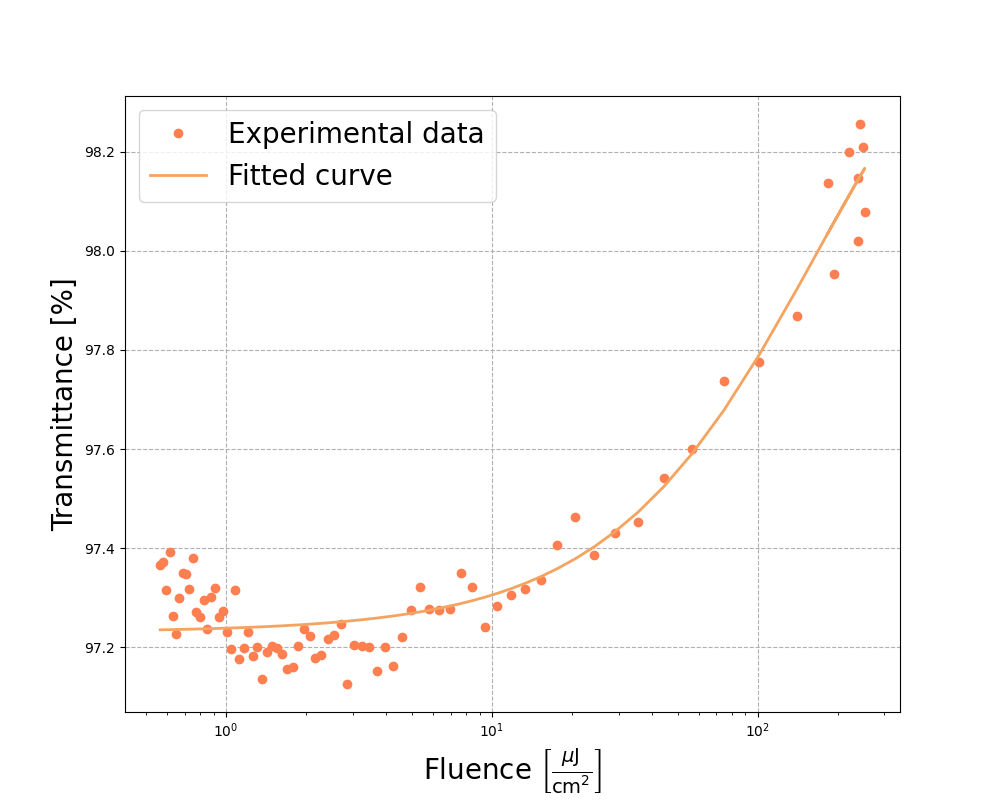
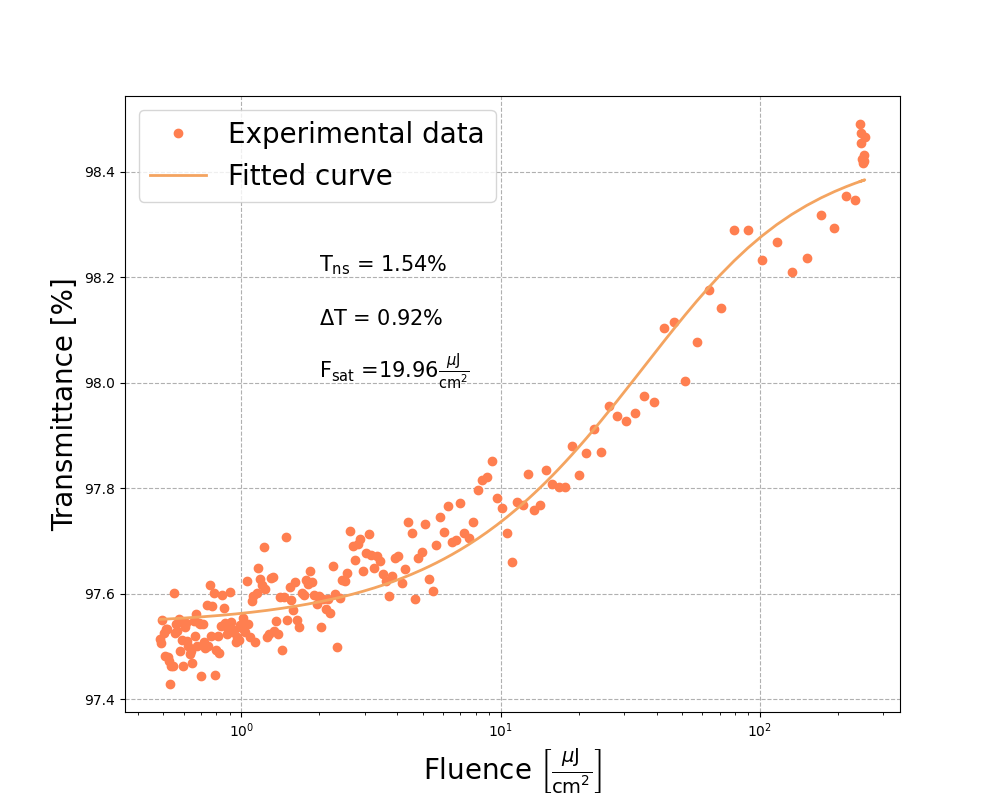
prezentacja na zakończenia

diff --git a/skrypty/transmittance_vs_position.py b/skrypty/transmittance_vs_position.py
@@ -4,18 +4,17 @@ import pandas as pd
 import os
 
 # wpisz ścieżkę do katalogu z danymi
-my_path = r'C:\Users\julia\Desktop\studia\Resonators 2025\Kody\Rezonatory2025\pomiary\pomiary_180825'
-file1 = r'swcnt_sa-2(1)_1_180825.csv'
-file2 = r'swcnt_sa-1(2)_1_180825.csv'
-file3 = r'grafen_b2_szklo_140825.csv'
+my_path = r'C:\Users\gosc\Desktop\Rezonatory2025\Rezonatory2025\pomiary\pomiary_130825'
+file1 = r'2_grafen_m1_probka_130825.csv'
+file2 = r'1_grafen_m1_szklo_130825.csv'
+
 # nazwa katalogu zapisu
-save_path = r'C:\Users\julia\Desktop\studia\Resonators 2025\Kody\Rezonatory2025\wyniki\wyniki_080925'
+save_path = r'C:\Users\gosc\Desktop\Rezonatory2025\Rezonatory2025\wyniki\wyniki_080925'
 # wpisz nazwę pliku do zapisu wykresus
-file_save = r'swcnt_sa-2(1)_plot.png'
+file_save = r'grafen_m1_plot.png'
 
 data1 = pd.read_csv(os.path.join(my_path, file1))
 data2 = pd.read_csv(os.path.join(my_path, file2))
-data3 = pd.read_csv(os.path.join(my_path, file3))
 
 # zestawienie
 grafen_m1 = ['1_grafen_m1_probka_130825.csv', '2_grafen_m1_probka_130825.csv', '3_grafen_m1_probka_130825.csv', '1_grafen_m1_szklo_130825.csv']
@@ -59,7 +58,6 @@ plt.figure(figsize=(10,8))
 # data13 = pd.read_csv(os.path.join(my_path, G_2L_D3861[2]))
 
 
-
 #nanorurki
 # data1 = pd.read_csv(os.path.join(my_path, swcnt_sa_3_1[0]))
 # data2 = pd.read_csv(os.path.join(my_path, swcnt_sa_3_1[1]))
@@ -91,7 +89,7 @@ plt.figure(figsize=(10,8))
 
 df1 = pd.DataFrame(data1)
 df2 = pd.DataFrame(data2)
-df3 = pd.DataFrame(data3)
+# df3 = pd.DataFrame(data3)
 # df3 = pd.DataFrame(data3)
 # df4 = pd.DataFrame(data4)
 # df5 = pd.DataFrame(data5)
@@ -123,7 +121,7 @@ P_ref = P0 * P_wsp #W moc padająca na próbkę
 # P_bez_probki = 0.44 #W moc tracona na przejściu przez drugą soczewkę i szkiełko
 # P_wsp2 = 0.91476
 
-P2 = df3['Power [W]']
+P2 = df2['Power [W]']
 P2_wsp = P2/P_ref
 # #grafen
 # P2_grafen_m1 = df4['Power [W]']
@@ -166,11 +164,11 @@ P_strat = 1 + (1 - P2_wsp)
 # P_strat_CNT_200nm = 1 + (1 - P2_wsp_CNT_200nm)
 # P_strat_CNT_300nm = 1 + (1 - P2_wsp_CNT_300nm)
 
-# P1_1 = df1['Power [W]']/P_ref * P_strat * 100
+P1_1 = df1['Power [W]']/P_ref * P_strat * 100
 # P1_2 = df2['Power [W]']/P_ref * P_strat * 100
 # P1_3 = df3['Power [W]']/P_ref * P_strat * 100
 # P1_4 = df4['Power [W]']/P_ref * P_strat * 100
-#grafen
+# #grafen
 # P1_grafen_m1 = df3['Power [W]']/P_ref * P_strat_grafen_m1 * 100
 # P1_grafen_b2 = df2['Power [W]']/P_ref * P_strat_grafen_b2 * 100
 # P1_G_3L_1 = df6['Power [W]']/P_ref * P_strat_G_3L * 100
@@ -179,7 +177,7 @@ P_strat = 1 + (1 - P2_wsp)
 # P1_SixCarbon = df9['Power [W]']/P_ref * P_strat_SixCarbon * 100
 # P1_G_2L_1 = df11['Power [W]']/ P_ref * P_strat_G_2L * 100
 # P1_G_2L_2 = df12['Power [W]']/P_ref * P_strat_G_2L*100
-#nanorurki
+# #nanorurki
 # P1_swcnt_sa_3_1 = df1['Power [W]']/P_ref * P_strat_swcnt_sa_3_1 * 100
 # P1_swcnt_sa_3_2 = df3['Power [W]']/P_ref * P_strat_swcnt_sa_3_1 * 100
 # P1_swcnt_sa_1_2 = df4['Power [W]']/P_ref * P_strat_swcnt_sa_3_1 * 100
@@ -194,10 +192,12 @@ P_strat = 1 + (1 - P2_wsp)
 # P1_CNT_300nm = df20['Power [W]']/P_ref * P_strat_CNT_300nm * 100
 # P1_CNT_50nm_2 = df22['Power [W]']/P_ref * P_strat_CNT_100nm *100
 
-P1_1 = df1['Power [W]']/P_ref * 100
-# P1_2 = df2['Power [W]']/P_ref * 100
-# P1_3 = df3['Power [W]']/P_ref * 100
-P2 = df3['Power [W]']/P_ref * 100
+# P1_1 = df1['Power2 [W]']/P_ref * 100
+# P1_2 = df2['Power2 [W]']/P_ref * 100
+# P1_3 = df3['Power2 [W]']/P_ref * 100
+# P1_4 = df4['Power2 [W]']/P_ref * 100
+# P1_5 = df5['Power2 [W]']/P_ref * 100
+# P2 = df3['Power [W]']/P_ref * 100
 
 # z = df3['Position [mm]']
 z1 = df1['Position [mm]']
@@ -205,40 +205,44 @@ z1 = df1['Position [mm]']
 '''PLOT'''
 
 # #grafen
-# plt.plot(z, P1_grafen_m1, color='darkorange', label = 'grafen m1 KAIST')
-# plt.plot(z1, P1_grafen_b2, color='blue', label = 'grafen b2 KAIST')
-# plt.plot(z1, P1_G_3L_1, color='red', label = 'G_3L: 1 warstwa')
-# plt.plot(z1, P1_G_3L_2, color='green', label = 'G_3L: 2 warstwy')
-# plt.plot(z1, P1_G_1030_BM, color='purple', label = 'G_1030_BM')
-# plt.plot(z1, P1_SixCarbon, color='brown', label = 'SixCarbon')
-# plt.plot(z1, P1_G_2L_1, color='magenta', label='G_2L: 1 warstwa')
-# plt.plot(z1, P1_G_2L_2, color='cyan', label='G_2L: 2 warstwy')
+# plt.plot(z, P1_grafen_m1, color='darkorange', label = 'graphene m1 KAIST', linewidth=3)
+# plt.plot(z1, P1_grafen_b2, color='blue', label = 'grafen b2 KAIST', linewidth=3)
+# plt.plot(z1, P1_G_3L_1, color='red', label = 'G_3L: 1 layer', linewidth=3)
+# plt.plot(z1, P1_G_3L_2, color='green', label = 'G_3L: 2 layers', linewidth=3)
+# plt.plot(z1, P1_G_1030_BM, color='purple', label = 'G_1030_BM', linewidth=3)
+# plt.plot(z1, P1_SixCarbon, color='brown', label = 'SixCarbon', linewidth=3)
+# plt.plot(z1, P1_G_2L_1, color='magenta', label='G_2L: 1 layer', linewidth=3)
+# plt.plot(z1, P1_G_2L_2, color='cyan', label='G_2L: 2 layers', linewidth=3)
 #nanorurki
-# plt.plot(z1, P1_swcnt_sa_3_1, color='darkorange', label = 'swcnt_sa-3(1)')
-# plt.plot(z1, P1_swcnt_sa_3_2, color='blue', label = 'swcnt_sa-3(2)')
-# plt.plot(z1, P1_swcnt_sa_1_2, color='red', label = 'swcnt_sa-1(2)')
-# plt.plot(z1, P1_swcnt_sa_2_1, color='green', label = 'swcnt_sa-2(1)')
-# plt.plot(z1, P1_CNT_25nm, color='purple', label = 'CNT 25nm')
-# plt.plot(z1, P1_CNT_30nm, color='brown', label = 'CNT 30nm')
-# plt.plot(z1, P1_CNT_40nm, color='pink', label = 'CNT 40nm')
-# plt.plot(z1, P1_CNT_50nm, color='cyan', label = 'CNT 50nm')
-# plt.plot(z1, P1_CNT_100nm, color='magenta', label = 'CNT 100nm')
-# plt.plot(z1, P1_CNT_150nm, color='gray', label = 'CNT 150nm')
-# plt.plot(z1, P1_CNT_200nm, color='olive', label = 'CNT 200nm')
-# plt.plot(z1, P1_CNT_300nm, color='teal', label = 'CNT 300nm')
-# plt.plot(z1, P1_CNT_50nm_2, color='chocolate', label='CNT 50nm (z 23 lipca)')
+# plt.plot(z1, P1_swcnt_sa_3_1, color='darkorange', label = 'swcnt_sa-3(1)', linewidth=3)
+# plt.plot(z1, P1_swcnt_sa_3_2, color='blue', label = 'swcnt_sa-3(2)', linewidth=3)
+# plt.plot(z1, P1_swcnt_sa_1_2, color='red', label = 'swcnt_sa-1(2)', linewidth=3)
+# plt.plot(z1, P1_swcnt_sa_2_1, color='green', label = 'swcnt_sa-2(1)', linewidth=3)
+# plt.plot(z1, P1_CNT_25nm, color='purple', label = 'CNT 25nm', linewidth=3)
+# plt.plot(z1, P1_CNT_30nm, color='brown', label = 'CNT 30nm', linewidth=3)
+# plt.plot(z1, P1_CNT_40nm, color='pink', label = 'CNT 40nm', linewidth=3)
+# plt.plot(z1, P1_CNT_50nm, color='cyan', label = 'CNT 50nm', linewidth=3)
+# plt.plot(z1, P1_CNT_100nm, color='magenta', label = 'CNT 100nm', linewidth=3)
+# plt.plot(z1, P1_CNT_150nm, color='gray', label = 'CNT 150nm', linewidth=3)
+# plt.plot(z1, P1_CNT_200nm, color='olive', label = 'CNT 200nm', linewidth=3)
+# plt.plot(z1, P1_CNT_300nm, color='teal', label = 'CNT 300nm', linewidth=3)
+# plt.plot(z1, P1_CNT_50nm_2, color='chocolate', label='CNT 50nm (different source)', linewidth=3)
 
-plt.plot(z1, P1_1, color='darkorange', label = 'Sample: SA-2(1)')
-# plt.plot(z1, P1_2, color='blue', label='Punkt 2')
-plt.plot(z1, P2, color='blue', label = 'Glass: graphene b2')
+plt.plot(z1, P1_1, color='darkorange', label = 'Measurement 2')#, linewidth=3)
+# plt.plot(z1, P1_2, color='chocolate', label = 'Measurement 3', linewidth=3)
+# plt.plot(z1, P1_3, color='olive', label = 'Measurement 8', linewidth=3)
+# plt.plot(z1, P1_4, color='forestgreen', label = 'Measurement 12', linewidth=3)
+# plt.plot(z1, P1_5, color='teal', label = 'Measurement 16', linewidth=3)
+# plt.plot(z1, P2, color='brown', label = 'Raw data: glass', linewidth=3)
+# plt.plot(z1, P1, color='olive', label='Raw data: sample', linewidth=3)
 plt.xlabel('Position [mm]', fontsize=20)
 # plt.ylabel('Moc [W]')
 plt.ylabel('Transmittance [%]', fontsize=20)
 # plt.ylabel("Intensywność [arb. units]")
 plt.xlim(0,13)
 # plt.ylim(87,90)
-# plt.legend(loc='lower left')
-plt.legend(fontsize=20)
+# plt.legend(loc='upper left', fontsize =14)
+# plt.legend(fontsize=20)
 plt.grid(linestyle='--')
 plt.savefig(os.path.join(save_path, file_save))
 plt.show()

diff --git a/skrypty/transmittance_vs_fluence.py b/skrypty/transmittance_vs_fluence.py
@@ -22,16 +22,16 @@ def T_fit(F, T_ns, T_delt, F_sat):#, F_2):
 # T_ns - 
 
 '''CALIBRATION DATA'''
-save_path = r'C:\Users\julia\Desktop\studia\Resonators 2025\Kody\Rezonatory2025\wyniki\wyniki_080925'
-my_path = r'C:\Users\julia\Desktop\studia\Resonators 2025\Kody\Rezonatory2025\pomiary\pomiary_140825'
+save_path = r'C:\Users\gosc\Desktop\Rezonatory2025\Rezonatory2025\wyniki\wyniki_080925'
+my_path = r'C:\Users\gosc\Desktop\Rezonatory2025\Rezonatory2025\pomiary\pomiary_130825'
 # dotyczy pomiarow do 010825 do probki grafen_m1_4 -> wtedy nazwa kalibracja.txt
 # my_path2 = r'C:\Users\gosc\Desktop\Rezonatory2025\Rezonatory2025\wyniki\wyniki_230725'
 # dotyczy pomiarow od 010825 do probki grafen_m1_4 -> wtedy nazwa beam_profile.txt
-my_path2 = r'C:\Users\julia\Desktop\studia\Resonators 2025\Kody\Rezonatory2025\pomiary\pomiary_010825'
+my_path2 = r'C:\Users\gosc\Desktop\Rezonatory2025\Rezonatory2025\pomiary\pomiary_010825'
 # filename_cal = os.path.join(my_path2, 'kalibracja.txt')
 filename_cal = os.path.join(my_path2, 'beam_profile.txt')
 # nazwa wykresu
-file_save2 = 'grafen_b2_fluence.png'
+file_save2 = 'grafen_m1_fluence.png'
 
 
 data_cal = np.array(np.genfromtxt(filename_cal))
@@ -46,8 +46,8 @@ z_min = z_cal[idx_min]
 
 '''GRAPH SHIFT'''
 
-file_zscan = 'grafen_b2_probka_1_140825.csv'
-file_surf = 'grafen_b2_szklo_140825.csv'
+file_zscan = '2_grafen_m1_probka_130825.csv'
+file_surf = '1_grafen_m1_szklo_130825.csv'
 data = pd.read_csv(os.path.join(my_path, file_zscan))
 data2 = pd.read_csv(os.path.join(my_path, file_surf))
 
@@ -119,24 +119,28 @@ F = E/A_eff #uJ/cm2
 # indeks dla ktorego jest max T
 maxT_index = np.argmax(T)
 
-F_cut = F[:maxT_index+4]
+F_cut = F[:maxT_index+1]
 
-T_cut = T[:maxT_index+4]
+T_cut = T[:maxT_index+1]
 
 
 '''PLOT FITTING'''
 # zgadywane parametry do lepszego dopasowania
-T_ns_guess = 100 - max(T_cut)
+T_ns_guess = max(T_cut)
 T_delt_guess = max(T_cut) - min(T_cut)
 T_sat_guess = 0.37*T_delt_guess 
 # F_sat_guess = T_cut[np.argmin(np.abs(max(T_cut) - T_sat_guess))]
-print(T_ns_guess)
-print(T_delt_guess)
-print(T_sat_guess)
+# print(T_delt_guess)
+# print(T_sat_guess)
 # print(F_sat_guess)
 
-fitParams_T, fitCovariances_T = optimize.curve_fit(T_fit, F_cut, T_cut, p0=[T_ns_guess, T_delt_guess, 10], sigma=None)
+fitParams_T, fitCovariances_T = optimize.curve_fit(T_fit, F_cut, T_cut, p0=[T_ns_guess, T_delt_guess, 56], sigma=None)
 T_new = T_fit(F_cut, *fitParams_T)
+T_ns = "%.2f" % (100 - fitParams_T[0])
+T_delt = "%.2f" % fitParams_T[1]
+F_sat = "%.2f" % fitParams_T[2]
+
+
 
 '''PLOTTING'''
 
@@ -148,6 +152,9 @@ plt.plot(F_cut, T_new, '-', color='sandybrown', linewidth=2, label='Fitted curve
 
 plt.xlabel(r"Fluence $\left[\frac{ μ\text{J}}{\text{cm}^2}\right]$", fontsize=20)
 plt.ylabel("Transmittance [%]", fontsize=20)
+plt.text(2, 98.21, r"T$_\text{ns}$ = "f"{T_ns}" "%", fontsize = 15)
+plt.text(2, 98.11, r"$\Delta$T = " f"{T_delt}" "%", fontsize=15)
+plt.text(2, 98.01, r"F$_\text{sat}$ =" f"{F_sat}" r"$\frac{\mu \text{J}}{\text{cm}^2}$", fontsize=15)
 
 plt.xscale('log')
 plt.grid(linestyle='--')
